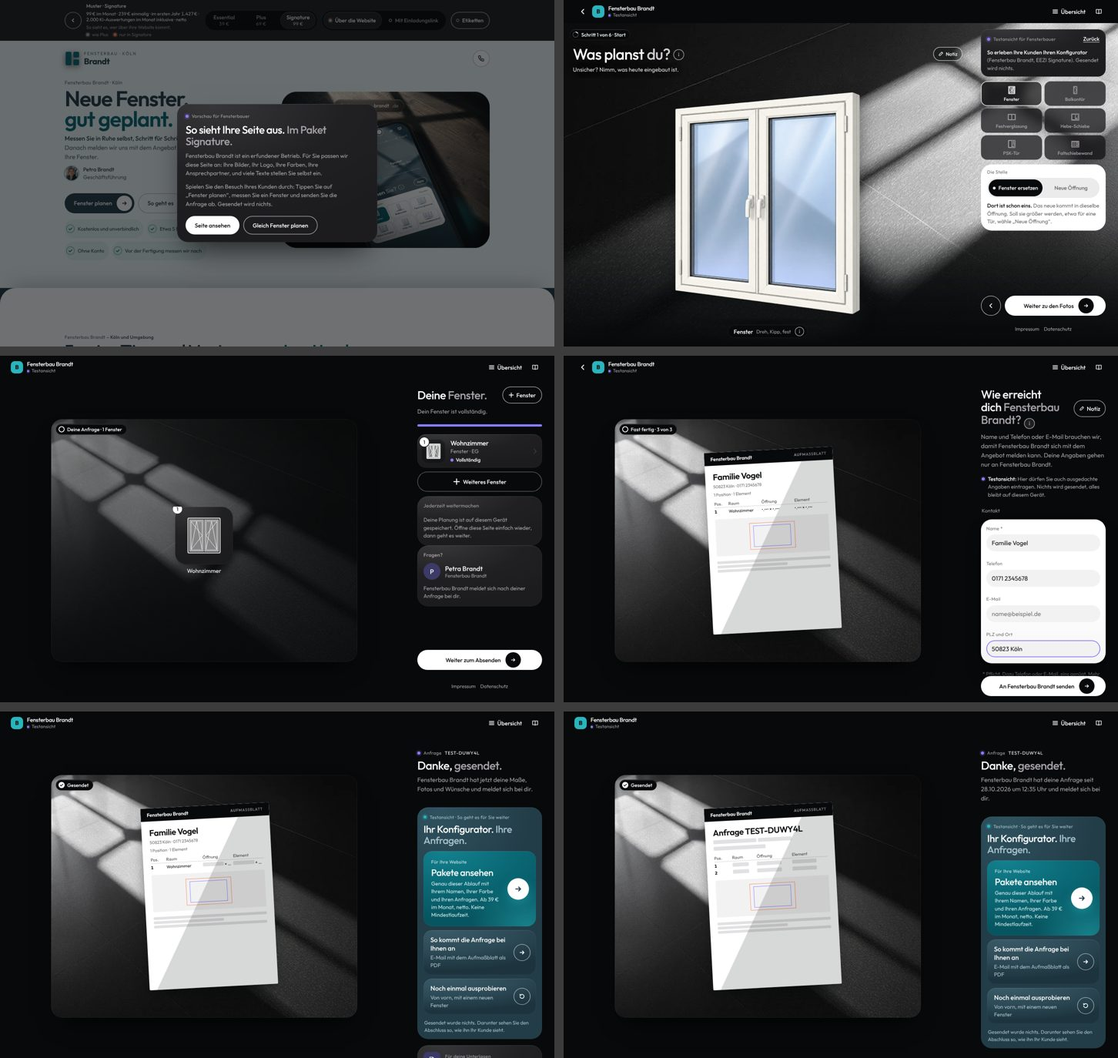
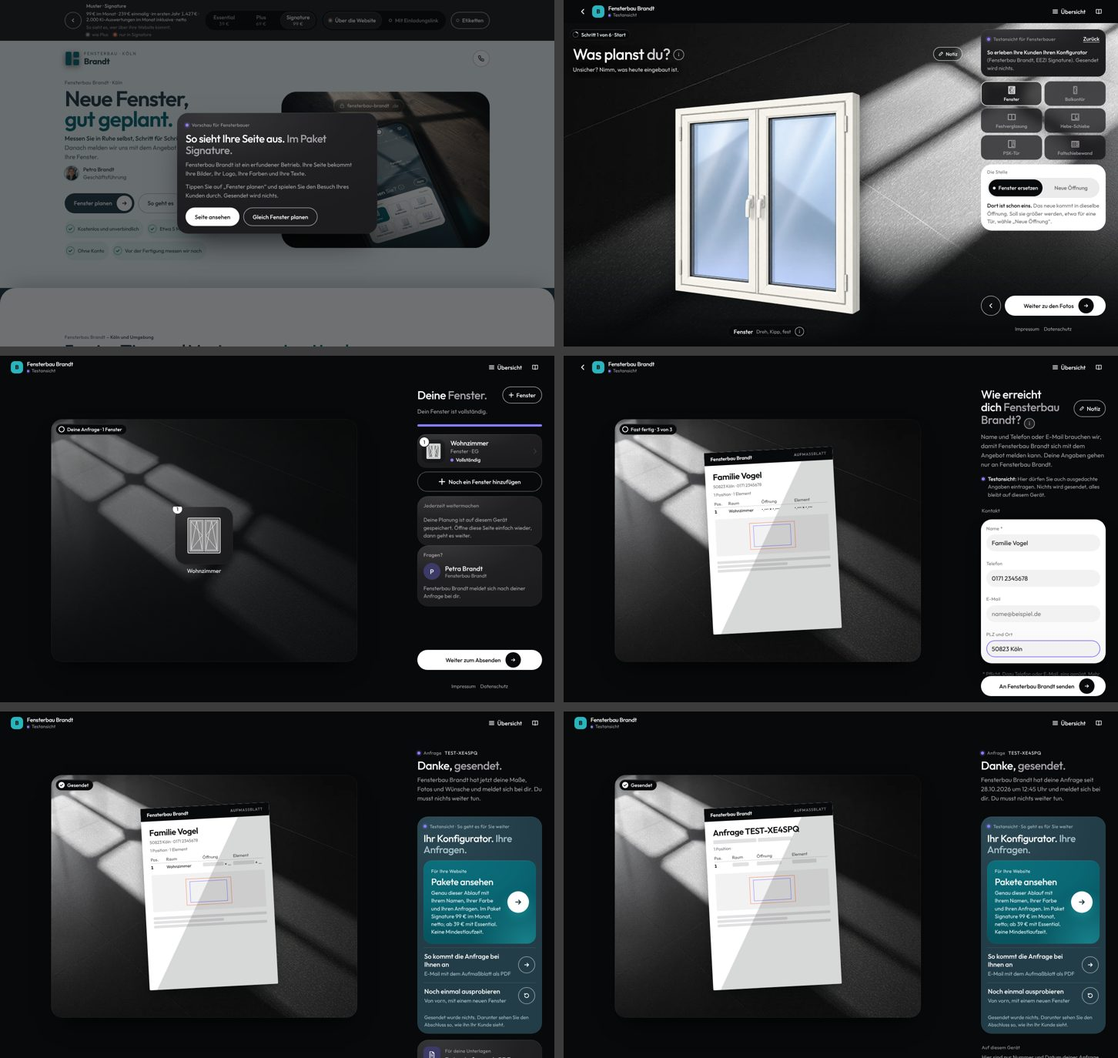
Testablauf: Muss-Punkte des Gremiums umgesetzt
Blatt nach dem Senden mit der gesendeten Anzahl an Fenstern (Veto Datenqualität), Hinweis-Kästchen kürzer und am Telefon unten,
Auswahl am Ende als eine Fläche mit Zeilen, Preis des gezeigten Pakets, „Noch ein Fenster hinzufügen“, „Du musst nichts weiter tun.“,
Name des Betriebs im Kopf ganz. Beispielseiten mit Seitensymbol im Kopf (kein 404 auf /favicon.ico). Gremium und Protokoll ergänzt.

Claude-Session: https://claude.ai/code/session_0184P5fGdniWcDaYecSm6W1G

diff --git a/web/assets/app.js b/web/assets/app.js
@@ -2539,7 +2539,7 @@ function instanzKuerzen() {
   if (ids.size) Fotos.weg(Array.from(ids));
   try { localStorage.removeItem(linkKey() + '.entwurf'); } catch (e) { /* ok */ }
   ['in', 'out'].forEach((k) => { const p = S.photos[k]; if (p && p.url && !p.demo) { try { URL.revokeObjectURL(p.url); } catch (e) { /* ok */ } } });
-  S.sent = { when: S.sent.when, nr: S.sent.nr || '', runde: S.sent.runde || 1, art: S.sent.art || '', uebertragen: true, kurz: true, anderswo: !!S.sent.anderswo };
+  S.sent = { when: S.sent.when, nr: S.sent.nr || '', runde: S.sent.runde || 1, art: S.sent.art || '', uebertragen: true, kurz: true, anderswo: !!S.sent.anderswo, fenster: Number(S.sent.fenster) || S.windows.length || 0 }; // die Anzahl bleibt für das Blatt (Gremium K: „Das Blatt zeigt die echte Anfrage“)
   S.windows = []; S.proj = Object.assign({}, PROJ0); S.win = baseWin(); S.editIdx = -1; S.photos = { in: null, out: null }; S.ai = { in: null, out: null }; S.nb = null; S.angelegt = 0;
   S.sync.bekannt = []; S.sync.geloescht = {};
   lokalSpeichern();
@@ -3932,13 +3932,13 @@ function anfrage2Dna() {
 }
 /* Kontakt: das Aufmaßblatt als Objekt im Fensterlicht; was getippt wird, steht sofort oben auf dem Blatt (abLive), Maße als Punkte */
 function abPapier(offen, schloss, betrieb, balken, nr) { // betrieb: Name im Kopfband statt eeziframes; balken: Maße als ruhige Balken (Bestätigung, Durchschrift ohne Maße); nr: gesendet und vom Gerät gelöscht, dann Nummer und ruhige Zeilen
-  const pr = S.proj, n = S.windows.length, el = S.windows.reduce((a, x) => a + (num(x.anzahl) || 1), 0), pkt = (v) => (balken ? '<i class="ab-leer" style="--b: 72%"></i>' : !v ? '•.•••' : offen ? thousand(v) : thousand(v).replace(/\d/g, '•'));
+  const pr = S.proj, n = S.windows.length, gz = nr && S.sent ? Number(S.sent.fenster) || 0 : 0, el = S.windows.reduce((a, x) => a + (num(x.anzahl) || 1), 0), pkt = (v) => (balken ? '<i class="ab-leer" style="--b: 72%"></i>' : !v ? '•.•••' : offen ? thousand(v) : thousand(v).replace(/\d/g, '•'));
   const kontakt = [pr.ort, pr.tel, pr.mail].map((t) => String(t || '').trim()).filter(Boolean);
   return '<div class="ab-papier" aria-hidden="true"><div class="ab-papier-band">' + (betrieb ? '<span class="ab-papier-betrieb">' + esc(betrieb) + '</span>' : LOGO(10) + '<span class="ab-wm" translate="no"><b>eezi</b>frames</span>') + '<span class="ab-papier-art">Aufmaßblatt</span></div><div class="ab-papier-in">' +
     '<p class="ab-papier-h" data-p="name">' + esc(nr ? 'Anfrage ' + nr : String(pr.name || '').trim() || 'Dein Aufmaß') + '</p>' +
     '<p class="ab-papier-kontakt" data-p="kontakt">' + (kontakt.length ? esc(kontakt.join(' · ')) : '<i class="ab-leer" style="--b: 38%"></i><i class="ab-leer" style="--b: 30%"></i>') + '</p>' +
-    '<p class="ab-papier-s">' + (nr && !n ? '<i class="ab-leer" style="--b: 46%"></i>' : n + (n === 1 ? ' Position' : ' Positionen') + ' · ' + el + (el === 1 ? ' Element' : ' Elemente') + (pr.gebaeude ? ' · ' + esc(lab('gebaeude', pr.gebaeude)) : '')) + '</p>' +
-    '<table class="ab-papier-tab"><tr><th>Pos.</th><th>Raum</th><th>Öffnung</th><th>Element</th></tr>' + S.windows.slice(0, 4).map((x, i) => { const d = derive(x); return '<tr><td><b>' + (i + 1) + '</b></td><td>' + esc(x.name || 'Fenster') + '</td><td>' + pkt(d.moW) + ' × ' + pkt(d.moH) + '</td><td>' + pkt(d.elW) + ' × ' + pkt(d.elH) + '</td></tr>'; }).join('') + (nr && !n ? [1, 2].map((k) => '<tr><td><b>' + k + '</b></td><td><i class="ab-leer" style="--b: 70%"></i></td><td><i class="ab-leer" style="--b: 72%"></i></td><td><i class="ab-leer" style="--b: 72%"></i></td></tr>').join('') : '') + '</table>' +
+    '<p class="ab-papier-s">' + (nr && !n ? (gz ? gz + (gz === 1 ? ' Position' : ' Positionen') : '<i class="ab-leer" style="--b: 46%"></i>') : n + (n === 1 ? ' Position' : ' Positionen') + ' · ' + el + (el === 1 ? ' Element' : ' Elemente') + (pr.gebaeude ? ' · ' + esc(lab('gebaeude', pr.gebaeude)) : '')) + '</p>' +
+    '<table class="ab-papier-tab"><tr><th>Pos.</th><th>Raum</th><th>Öffnung</th><th>Element</th></tr>' + S.windows.slice(0, 4).map((x, i) => { const d = derive(x); return '<tr><td><b>' + (i + 1) + '</b></td><td>' + esc(x.name || 'Fenster') + '</td><td>' + pkt(d.moW) + ' × ' + pkt(d.moH) + '</td><td>' + pkt(d.elW) + ' × ' + pkt(d.elH) + '</td></tr>'; }).join('') + (nr && !n ? Array.from({ length: Math.min(4, gz || 1) }, (_, i) => i + 1).map((k) => '<tr><td><b>' + k + '</b></td><td><i class="ab-leer" style="--b: 70%"></i></td><td><i class="ab-leer" style="--b: 72%"></i></td><td><i class="ab-leer" style="--b: 72%"></i></td></tr>').join('') : '') + '</table>' +
     '<div class="ab-papier-zeichnung"><span class="ab-papier-oeffnung"><span class="ab-papier-element"></span></span></div><div class="ab-papier-zeilen"><i></i><i class="k"></i><i></i></div></div>' +
     (schloss ? '<span class="ab-schloss">' + LOCK + '</span>' : '') + '</div>';
 }
@@ -5133,7 +5133,7 @@ function lgKopf(zurueck) {
   const z = zurueck === false ? null : zurueck || ['liste', 'Zurück: Fenster']; // false: ohne Zurück (Liste der Fenster)
   /* ohne Zurück (Liste der Fenster) ist das Logo wie bisher der Weg zur Startseite der Website */
   const marke = S.betrieb ? (INST ? instKopf() : '') : z ? '<span class="lg-marke" role="img" aria-label="eeziframes">' + LOGO(26) + WM() + '</span>' : '<a class="lg-marke hdr-logo" href="' + PORTAL_URL + '" aria-label="eeziframes, zur Startseite">' + LOGO(26) + WM() + '</a>';
-  return '<div class="lg-kopf"><span class="lg-kopf-l">' + (z ? '<button type="button" class="lg-kopf-zurueck" data-act="' + z[0] + '" aria-label="' + z[1] + '">' + LG_PFEIL_L + '</button>' : '') + marke + '</span>' +
+  return '<div class="lg-kopf' + (z && INST && S.betrieb ? ' mit-name' : '') + '"><span class="lg-kopf-l">' + (z ? '<button type="button" class="lg-kopf-zurueck" data-act="' + z[0] + '" aria-label="' + z[1] + '">' + LG_PFEIL_L + '</button>' : '') + marke + '</span>' +
     '<span class="lg-kopf-r"><button type="button" data-act="wohin" aria-label="Übersicht: Schritte, Fenster und Startseite"><svg viewBox="0 0 18 18" fill="none" stroke="currentColor" stroke-width="1.8" stroke-linecap="round" aria-hidden="true"><path d="M3 5h12M3 9h12M3 13h12"/></svg><span>Übersicht</span></button><button type="button" class="lg-kopf-icon" data-act="gindex" aria-label="Begriffe"><svg viewBox="0 0 18 18" fill="none" stroke="currentColor" stroke-width="1.6" stroke-linejoin="round" aria-hidden="true"><path d="M2.5 3.5h5a1.5 1.5 0 0 1 1.5 1.5v10a1.5 1.5 0 0 0-1.5-1.5h-5zM15.5 3.5h-5A1.5 1.5 0 0 0 9 5v10a1.5 1.5 0 0 1 1.5-1.5h5z"/></svg></button></span></div>';
 }
 /* Kapitel als Stationen auf einem Band: das laufende benannt, die übrigen als Punkte */
@@ -7775,7 +7775,7 @@ function instListeDna(weg) {
   }
   const plus = n && neuMoeglich() && linkOffen() ? '<button type="button" class="dna-pille dna-pille--leise dna-pille--klein hd-neu" data-act="new">' + PLUS + 'Fenster</button>' : '';
   const kopf = '<div class="hd li-kopf"><div class="li-titel"><h1 tabindex="-1">' + T('Ihre', 'Deine') + ' <em>Fenster.</em></h1>' + plus + '</div><p class="sub li-stand">' + stand + '</p></div>';
-  const liste = '<section class="sec liste"><div class="liste-in">' + S.windows.map((x, i) => winCard(x, i, true).replace(/<svg[\s\S]*?<\/svg>/, zuStrich)).join('') + neuKnopf() + '</div></section>';
+  const liste = '<section class="sec liste"><div class="liste-in">' + S.windows.map((x, i) => winCard(x, i, true).replace(/<svg[\s\S]*?<\/svg>/, zuStrich)).join('') + neuKnopf('Noch ein Fenster hinzufügen') + '</div></section>'; // nicht „Weiteres Fenster“: klang neben „Weiter zum Absenden“ gleich (Gremium K)
   const weiter = vorschau() ? '' : instWebsite() ? instWeiterKarte(du) : linkMerk(d.name, du);
   const fuss = n ? '<div class="lg-fuss li-fuss"><button type="button" class="dna-pille lg-weiter btn primary" data-act="go" data-v="anfrage">Weiter zum Absenden' + abPfeil + '</button></div>' : '';
   return { html: lgKopf(false) + dnaTisch(buehne, (weg || '') + kopf + liste + weiter + instKontaktDna(d) + rechtLinks() + fuss), dna: true, cls: 'dna li dt gs-k-teil', voll: true };
@@ -7787,7 +7787,7 @@ function instGesendetKurz(weg) {
   const d = lkDaten(), name = d.name, du = d.du, T = (sie, x) => (du ? x : sie), test = S.sent.art === 'test', nr = S.sent.nr || '';
   const buehne = abBuehne('ab-blatt gs-buehne', 'Gesendet', abPapier(false, false, name, true, nr));
   const titel = '<div class="lg-frage gs-titel"><span class="dna-label">' + (test ? 'Testanfrage ' : 'Anfrage ') + '<span class="inst-nr-wert">' + esc(nr) + '</span></span><div class="lg-frage-kopf"><h1 tabindex="-1">' + (S.sent.anderswo ? 'Schon <span class="ak">gesendet.</span>' : 'Danke, <span class="ak">gesendet.</span>') + '</h1></div>' +
-    '<p>' + esc(name) + T(' hat Ihre Anfrage seit ', ' hat deine Anfrage seit ') + esc(sentWhen()) + T(' und meldet sich bei Ihnen.', ' und meldet sich bei dir.') + '</p></div>';
+    '<p>' + esc(name) + T(' hat Ihre Anfrage seit ', ' hat deine Anfrage seit ') + esc(sentWhen()) + T(' und meldet sich bei Ihnen. Sie müssen nichts weiter tun.', ' und meldet sich bei dir. Du musst nichts weiter tun.') + '</p></div>';
   const geraet = '<section class="gs-geraet"><span class="dna-label">Auf diesem Gerät</span><p>' + T('Hier sind nur Nummer und Datum Ihrer Anfrage gespeichert; Maße, Fotos und Kontaktdaten sind von diesem Gerät gelöscht.', 'Hier sind nur Nummer und Datum deiner Anfrage gespeichert; Maße, Fotos und Kontaktdaten sind von diesem Gerät gelöscht.') + '</p>' +
     '<div class="gs-geraet-knoepfe"><button type="button" class="probe-info-link" data-act="inst-vergessen">Von diesem Gerät löschen</button></div><p class="gs-bleibt">' + T('Ihre Anfrage bei ', 'Deine Anfrage bei ') + esc(name) + ' bleibt bestehen.</p></section>';
   const fuss = '<div class="gs-fuss"><button type="button" class="dna-pille" data-act="inst-weitere">Weitere Anfrage starten' + abPfeil + '</button></div>';
@@ -7813,7 +7813,10 @@ function probeInfo() {
 function probeWahl(frisch) {
   if (!PROBE) return '';
   const P = window.Pakete; let ab = '';
-  try { const m = Math.min.apply(null, P.LISTE.map((k) => P.preis(k).monat)); if (isFinite(m)) ab = 'Ab ' + P.euro(m) + ' im Monat, netto. '; } catch (e) { ab = ''; }
+  try {
+    const g = P.LISTE.map((k) => [k, P.preis(k).monat]).sort((a, b) => a[1] - b[1]), hier = P.preis(PROBE_PAKET).monat, name = (k) => String((P.PAKETE[k] || {}).name || k).replace(/^EEZI\s+/, '');
+    if (g.length && isFinite(hier)) ab = 'Im Paket ' + name(PROBE_PAKET) + ' ' + P.euro(hier) + ' im Monat, netto' + (g[0][0] !== PROBE_PAKET ? '; ab ' + P.euro(g[0][1]) + ' mit ' + name(g[0][0]) : '') + '. ';
+  } catch (e) { ab = ''; } // Preis passend zum gezeigten Paket (Gremium F: sonst wirkt „ab …“ am Ende wie ein Köder)
   const pfeil = '<svg viewBox="0 0 16 16" fill="none" stroke="currentColor" stroke-width="2" stroke-linecap="round" stroke-linejoin="round"><path d="M3 8h10M9 4l4 4-4 4"/></svg>';
   const neu = '<svg viewBox="0 0 16 16" fill="none" stroke="currentColor" stroke-width="1.8" stroke-linecap="round" stroke-linejoin="round"><path d="M2.8 8a5.2 5.2 0 1 0 1.6-3.8"/><path d="M2.6 2.4v2.8h2.8"/></svg>';
   const karte = (i, tag, attr, cls, klein, titel, text, knopf) => '<' + tag + ' class="pw-karte' + cls + '" ' + attr + ' style="--i: ' + i + '"><span class="pw-text">' + (klein ? '<small>' + klein + '</small>' : '') + '<b>' + titel + '</b><span>' + text + '</span></span><span class="pw-knopf" aria-hidden="true">' + knopf + '</span></' + tag + '>';
@@ -7935,7 +7938,7 @@ function instGesendet() {
   const d = lkDaten(), name = d.name, du = d.du, T = (sie, x) => (du ? x : sie), test = S.sent.art === 'test', p = d.p || {}, nr = S.sent.nr || '';
   const buehne = abBuehne('ab-blatt gs-buehne', 'Gesendet', abPapier(false, false, name, true));
   const titel = '<div class="lg-frage gs-titel"><span class="dna-label">' + (test ? 'Testanfrage ' : 'Anfrage ') + '<span class="inst-nr-wert">' + esc(nr) + '</span></span><div class="lg-frage-kopf"><h1 tabindex="-1">Danke, <span class="ak">gesendet.</span></h1></div>' +
-    '<p>' + esc(name) + T(' hat jetzt Ihre Maße, Fotos und Wünsche und meldet sich bei Ihnen.', ' hat jetzt deine Maße, Fotos und Wünsche und meldet sich bei dir.') + '</p></div>';
+    '<p>' + esc(name) + T(' hat jetzt Ihre Maße, Fotos und Wünsche und meldet sich bei Ihnen. Sie müssen nichts weiter tun.', ' hat jetzt deine Maße, Fotos und Wünsche und meldet sich bei dir. Du musst nichts weiter tun.') + '</p></div>';
   const testNote = test ? '<p class="ab-note">Vorschau: Das war eine Testanfrage. Sie geht mit „[Test]“ im Betreff an den Betrieb, zählt nicht mit und ist nach einem Tag gelöscht.</p>' : '';
   const pdf = INST_M.kopieKunde ? '<section class="gs-pdf"><div class="gs-pdf-kopf"><span class="probe-anhang-ic" aria-hidden="true">' + FILE_IC + '</span><span><span class="dna-label">' + T('Für Ihre Unterlagen', 'Für deine Unterlagen') + '</span><b>' + T('Ihre Anfrage als PDF', 'Deine Anfrage als PDF') + '</b></span></div>' +
     '<p>' + T('Durchschrift mit Ihren Fenstern, der Ausstattung und Ihren Wünschen, ohne Maße. Das vollständige Aufmaßblatt schickt ' + esc(name) + ' Ihnen gern auf Anfrage. Nur jetzt: Danach löschen wir die Planung von diesem Gerät.', 'Durchschrift mit deinen Fenstern, der Ausstattung und deinen Wünschen, ohne Maße. Das vollständige Aufmaßblatt schickt ' + esc(name) + ' dir gern auf Anfrage. Nur jetzt: Danach löschen wir die Planung von diesem Gerät.') + '</p>' +

diff --git a/web/assets/app.css b/web/assets/app.css
@@ -1539,6 +1539,8 @@ button.tile { border: 0; padding: 0; font: inherit; color: inherit; width: 100% 
 .dna .lg-kopf .lg-kopf-zurueck, .dna .lg-kopf .lg-kopf-icon { flex: none; width: 44px; padding: 0; justify-content: center }
 /* 320 px: „Übersicht“ nur als Zeichen (Name bleibt für Vorleser), damit jeder Knopf 44 px breit bleibt */
 @media (max-width: 359px) { .dna .lg-kopf [data-act="wohin"] { flex: none; width: 44px; padding: 0; justify-content: center } .dna .lg-kopf [data-act="wohin"] span { position: absolute; width: 1px; height: 1px; overflow: hidden; clip-path: inset(50%); white-space: nowrap } }
+/* Name des Betriebs mit Zurück daneben (Instanz): bis 430 px „Übersicht“ nur als Zeichen, damit der Name ganz steht (Gremium G, Daniel Roth) */
+@media (max-width: 430px) { .dna .lg-kopf.mit-name [data-act="wohin"] { flex: none; width: 44px; padding: 0; justify-content: center } .dna .lg-kopf.mit-name [data-act="wohin"] span { position: absolute; width: 1px; height: 1px; overflow: hidden; clip-path: inset(50%); white-space: nowrap } }
 .dna .lg-marke { display: inline-flex; align-items: center; gap: 8px; font: 400 17px/1 var(--font-sans); letter-spacing: -.01em; color: var(--tinte); white-space: nowrap }
 .dna .lg-marke .fi-logo { width: 26px; height: 26px }
 .dna .lg-marke .wm b { font-weight: 700 }
@@ -3150,20 +3152,22 @@ html.dna-voll .fb .qoffen[aria-pressed="true"] { box-shadow: inset 0 0 0 1.5px v
 .dna.gs .pw-haupt .pw-knopf { width: 56px; height: 56px; background: var(--weiss); color: var(--schwarz); box-shadow: 0 10px 30px -8px rgba(137, 126, 252, .7) }
 .dna.gs .pw-haupt .pw-knopf svg { width: 20px; height: 20px }
 .dna.gs .pw-fuss { margin: 2px 2px 8px; font: 400 13px/1.45 var(--font-sans); color: var(--silbergrau) }
-.dna.gs .probe-wahl.auftritt .pw-karte { animation: pwAuf 460ms var(--dna-auftritt) both; animation-delay: calc(450ms + var(--i, 0) * 90ms) }
+.dna.gs .probe-wahl.auftritt .pw-karte { animation: pwAuf 360ms var(--dna-auftritt) both; animation-delay: calc(450ms + var(--i, 0) * 80ms) }
+/* Gremium G (28.10.2026): eine Fläche, nur „Pakete ansehen“ gefüllt; die beiden anderen Wege als Zeilen mit Trennlinie, kein Rahmen im Rahmen */
+.dna.gs .pw-karte:not(.pw-haupt) { min-height: 64px; padding: 12px 2px; border-radius: 0; background: none; box-shadow: inset 0 1px 0 rgba(255, 255, 255, .12) }
+.dna.gs .pw-karte:not(.pw-haupt) + .pw-karte:not(.pw-haupt) { margin-top: -10px }
+.dna.gs .pw-karte:not(.pw-haupt):active { transform: none; opacity: .7 }
 @keyframes pwAuf { from { opacity: 0; transform: translateY(10px) } to { opacity: 1; transform: none } }
 /* In den Farben des Beispielbetriebs (Inhaber, 28.10.2026: „auch in den entsprechenden Farben des Betriebes“; Palette Fensterbau Brandt
    wie in web/vorschau/paket-beispiel/farben.css): Signature ganz (Fläche Schieferblau, Karten Schiefer, die große in Petrol mit
    Aquatürkis als Licht), Plus zur Hälfte (Karten Schiefer, Licht Aquatürkis), Essential bleibt eeziframes */
 .dna.gs .probe-wahl.pw-voll { --b-schiefer: #233d48; --b-schiefer-hoch: #2c4955; --b-petrol: #0a6774; --b-petrol-tief: #075560; --b-aqua: #2ab4bd; --b-eis: #eef7f9;
-  padding: 18px 16px 6px; border-radius: 28px; background: radial-gradient(120% 70% at 18% 0%, #2f5260, var(--b-schiefer) 60%); box-shadow: inset 0 1px 0 rgba(255, 255, 255, .10) }
+  padding: 18px 16px 6px; border-radius: 28px; background: radial-gradient(120% 70% at 18% 0%, #2c4955, var(--b-schiefer) 60%); box-shadow: inset 0 1px 0 rgba(255, 255, 255, .10) }
 .dna.gs .probe-wahl:is(.pw-voll, .pw-halb) .dna-label { color: #a9c3cc }
-.dna.gs .probe-wahl:is(.pw-voll, .pw-halb) .dna-label::before { background: #2ab4bd; box-shadow: 0 0 0 4px rgba(42, 180, 189, .22) }
 .dna.gs .probe-wahl:is(.pw-voll, .pw-halb) h2 .ak, .dna.gs .probe-wahl:is(.pw-voll, .pw-halb) .pw-text > span, .dna.gs .probe-wahl:is(.pw-voll, .pw-halb) .pw-text small, .dna.gs .probe-wahl.pw-voll .pw-fuss { color: #a9c3cc }
-.dna.gs .probe-wahl:is(.pw-voll, .pw-halb) .pw-karte { background: radial-gradient(120% 90% at 18% 0%, #3a5a68, #2c4955 55%, #1d343e) }
-.dna.gs .probe-wahl.pw-voll .pw-haupt { background: radial-gradient(70% 90% at 92% 100%, rgba(42, 180, 189, .45), transparent 70%), radial-gradient(120% 90% at 18% 0%, #13808e, #0a6774 55%, #075560) }
-.dna.gs .probe-wahl.pw-voll .pw-haupt .pw-text > span, .dna.gs .probe-wahl.pw-voll .pw-haupt .pw-text small { color: #cfe9ec }
-.dna.gs .probe-wahl.pw-halb .pw-haupt { background: radial-gradient(70% 90% at 92% 100%, rgba(42, 180, 189, .38), transparent 72%), radial-gradient(120% 90% at 18% 0%, #3a5a68, #2c4955 55%, #1d343e) }
+.dna.gs .probe-wahl.pw-voll .pw-haupt { background: radial-gradient(70% 90% at 92% 100%, rgba(42, 180, 189, .45), transparent 70%), radial-gradient(120% 90% at 18% 0%, #0c6f7c, #0a6774 55%, #075560) }
+.dna.gs .probe-wahl.pw-voll .pw-haupt .pw-text > span, .dna.gs .probe-wahl.pw-voll .pw-haupt .pw-text small { color: #e6f4f6 } /* ab 5,2:1 auf Petrol */
+.dna.gs .probe-wahl.pw-halb .pw-haupt { background: radial-gradient(70% 90% at 92% 100%, rgba(42, 180, 189, .38), transparent 72%), radial-gradient(120% 90% at 18% 0%, #2c4955, #233d48 55%, #1d343e) }
 .dna.gs .probe-wahl:is(.pw-voll, .pw-halb) .pw-haupt .pw-knopf { color: #233d48; box-shadow: 0 10px 30px -8px rgba(42, 180, 189, .7) }
 .dna.gs .probe-wahl:is(.pw-voll, .pw-halb) .pw-knopf { box-shadow: inset 0 0 0 1.5px rgba(255, 255, 255, .55) }
 @media (prefers-reduced-motion: reduce) {

diff --git a/web/vorschau/paket-beispiel/essential.html b/web/vorschau/paket-beispiel/essential.html
@@ -1,4 +1,4 @@
-<!doctype html><html lang="de"><head><meta charset="utf-8"><meta name="robots" content="noindex, nofollow"><meta name="viewport" content="width=device-width,initial-scale=1,viewport-fit=cover"><style>:root{box-sizing:border-box}body{margin:0;padding:0;background:#07090a}img{max-width:100%}[hidden]{display:none!important}</style></head><body><!doctype html><html><head><meta charset=utf8><meta name=viewport content="width=device-width,initial-scale=1,viewport-fit=cover"><style>:root{color-scheme:light;box-sizing:border-box;padding-top:env(safe-area-inset-top,0px);padding-bottom:env(safe-area-inset-bottom,0px)}html{scroll-padding-top:env(safe-area-inset-top,0px)}body{margin:0;padding:0;font:14px -apple-system,BlinkMacSystemFont,sans-serif;background:#fff;color:#000}img{max-width:100%}[hidden]:not([hidden=until-found i]){display:none!important}</style></head><body>
+<!doctype html><html lang="de"><head><meta charset="utf-8"><meta name="robots" content="noindex, nofollow"><meta name="viewport" content="width=device-width,initial-scale=1,viewport-fit=cover"><style>:root{box-sizing:border-box}body{margin:0;padding:0;background:#07090a}img{max-width:100%}[hidden]{display:none!important}</style><link rel="icon" href="/favicon.svg" type="image/svg+xml"></head><body><!doctype html><html><head><meta charset=utf8><meta name=viewport content="width=device-width,initial-scale=1,viewport-fit=cover"><style>:root{color-scheme:light;box-sizing:border-box;padding-top:env(safe-area-inset-top,0px);padding-bottom:env(safe-area-inset-bottom,0px)}html{scroll-padding-top:env(safe-area-inset-top,0px)}body{margin:0;padding:0;font:14px -apple-system,BlinkMacSystemFont,sans-serif;background:#fff;color:#000}img{max-width:100%}[hidden]:not([hidden=until-found i]){display:none!important}</style></head><body>
 <title>Beispiel EEZI Essential: Fensterbau Brandt, ein erfundener Betrieb · eeziframes</title>
 <style>html,body{background:#07090a}</style>
 <link rel="preload" href="fonts/outfit.woff2" as="font" type="font/woff2" crossorigin>

diff --git a/web/vorschau/paket-beispiel/plus.html b/web/vorschau/paket-beispiel/plus.html
@@ -1,4 +1,4 @@
-<!doctype html><html lang="de"><head><meta charset="utf-8"><meta name="robots" content="noindex, nofollow"><meta name="viewport" content="width=device-width,initial-scale=1,viewport-fit=cover"><style>:root{box-sizing:border-box}body{margin:0;padding:0;background:#07090a}img{max-width:100%}[hidden]{display:none!important}</style></head><body><title>Beispiel EEZI Essential Plus: Fensterbau Brandt, ein erfundener Betrieb · eeziframes</title>
+<!doctype html><html lang="de"><head><meta charset="utf-8"><meta name="robots" content="noindex, nofollow"><meta name="viewport" content="width=device-width,initial-scale=1,viewport-fit=cover"><style>:root{box-sizing:border-box}body{margin:0;padding:0;background:#07090a}img{max-width:100%}[hidden]{display:none!important}</style><link rel="icon" href="/favicon.svg" type="image/svg+xml"></head><body><title>Beispiel EEZI Essential Plus: Fensterbau Brandt, ein erfundener Betrieb · eeziframes</title>
 <meta name="description" content="Messen Sie Ihre Fenster selbst, Schritt für Schritt erklärt, und fragen Sie Ihr Angebot bei Fensterbau Brandt in Köln an. Kostenlos, ohne Konto, etwa 5 Minuten je Fenster.">
 <style>html,body{background:#07090a}</style>
 <link rel="preload" href="fonts/outfit.woff2" as="font" type="font/woff2" crossorigin>

diff --git a/web/vorschau/paket-beispiel/signature.html b/web/vorschau/paket-beispiel/signature.html
@@ -1,4 +1,4 @@
-<!doctype html><html lang="de"><head><meta charset="utf-8"><meta name="robots" content="noindex, nofollow"><meta name="viewport" content="width=device-width,initial-scale=1,viewport-fit=cover"><style>:root{box-sizing:border-box}body{margin:0;padding:0;background:#07090a}img{max-width:100%}[hidden]{display:none!important}</style></head><body><title>Beispiel EEZI Signature: Fensterbau Brandt, ein erfundener Betrieb · eeziframes</title>
+<!doctype html><html lang="de"><head><meta charset="utf-8"><meta name="robots" content="noindex, nofollow"><meta name="viewport" content="width=device-width,initial-scale=1,viewport-fit=cover"><style>:root{box-sizing:border-box}body{margin:0;padding:0;background:#07090a}img{max-width:100%}[hidden]{display:none!important}</style><link rel="icon" href="/favicon.svg" type="image/svg+xml"></head><body><title>Beispiel EEZI Signature: Fensterbau Brandt, ein erfundener Betrieb · eeziframes</title>
 <meta name="description" content="Messen Sie Ihre Fenster selbst, Schritt für Schritt erklärt, und fragen Sie Ihr Angebot bei Fensterbau Brandt in Köln an. Kostenlos, ohne Konto, etwa 5 Minuten je Fenster.">
 <style>html,body{background:#07090a}</style>
 <link rel="preload" href="fonts/outfit.woff2" as="font" type="font/woff2" crossorigin>

diff --git a/docs/profis/werkzeuge/ausprobieren-hinweis.js b/docs/profis/werkzeuge/ausprobieren-hinweis.js
@@ -31,10 +31,8 @@
     '<div class="ez-probe__karte">' +
       '<span class="ez-probe__etikett">Vorschau für Fensterbauer</span>' +
       '<h2 id="ez-probe-t" tabindex="-1">So sieht Ihre Seite aus. <span>Im Paket ' + (namen[paket] || 'Signature') + '.</span></h2>' +
-      '<p id="ez-probe-s">Fensterbau Brandt ist ein erfundener Betrieb. Für Sie passen wir diese Seite an: Ihre Bilder, Ihr Logo, Ihre Farben, ' +
-        'Ihre Ansprechpartner, und viele Texte stellen Sie selbst ein.</p>' +
-      '<p>Spielen Sie den Besuch Ihres Kunden durch: Tippen Sie auf „Fenster planen“, messen Sie ein Fenster und senden Sie die Anfrage ab. ' +
-        'Gesendet wird nichts.</p>' +
+      '<p id="ez-probe-s">Fensterbau Brandt ist ein erfundener Betrieb. Ihre Seite bekommt Ihre Bilder, Ihr Logo, Ihre Farben und Ihre Texte.</p>' +
+      '<p>Tippen Sie auf „Fenster planen“ und spielen Sie den Besuch Ihres Kunden durch. Gesendet wird nichts.</p>' +
       '<div class="ez-probe__knoepfe">' +
         '<button type="button" class="ez-probe__pille" data-zu>Seite ansehen</button>' +
         '<a class="ez-probe__leise" href="/app/?ausprobieren=' + paket + '">Gleich Fenster planen</a>' +

diff --git a/web/vorschau/paket-beispiel/ausprobieren.js b/web/vorschau/paket-beispiel/ausprobieren.js
@@ -31,10 +31,8 @@
     '<div class="ez-probe__karte">' +
       '<span class="ez-probe__etikett">Vorschau für Fensterbauer</span>' +
       '<h2 id="ez-probe-t" tabindex="-1">So sieht Ihre Seite aus. <span>Im Paket ' + (namen[paket] || 'Signature') + '.</span></h2>' +
-      '<p id="ez-probe-s">Fensterbau Brandt ist ein erfundener Betrieb. Für Sie passen wir diese Seite an: Ihre Bilder, Ihr Logo, Ihre Farben, ' +
-        'Ihre Ansprechpartner, und viele Texte stellen Sie selbst ein.</p>' +
-      '<p>Spielen Sie den Besuch Ihres Kunden durch: Tippen Sie auf „Fenster planen“, messen Sie ein Fenster und senden Sie die Anfrage ab. ' +
-        'Gesendet wird nichts.</p>' +
+      '<p id="ez-probe-s">Fensterbau Brandt ist ein erfundener Betrieb. Ihre Seite bekommt Ihre Bilder, Ihr Logo, Ihre Farben und Ihre Texte.</p>' +
+      '<p>Tippen Sie auf „Fenster planen“ und spielen Sie den Besuch Ihres Kunden durch. Gesendet wird nichts.</p>' +
       '<div class="ez-probe__knoepfe">' +
         '<button type="button" class="ez-probe__pille" data-zu>Seite ansehen</button>' +
         '<a class="ez-probe__leise" href="/app/?ausprobieren=' + paket + '">Gleich Fenster planen</a>' +

diff --git a/docs/profis/werkzeuge/ausprobieren-hinweis.css b/docs/profis/werkzeuge/ausprobieren-hinweis.css
@@ -24,4 +24,6 @@
 .ez-probe__pille:active, .ez-probe__leise:active { transform: scale(.97); transition-duration: 0s }
 .ez-probe__pille:focus-visible, .ez-probe__leise:focus-visible { outline: 2px solid #fff; outline-offset: 3px }
 @media (max-width: 420px) { .ez-probe__knoepfe > * { flex: 1 1 100% } .ez-probe h2 { font-size: 26px } }
+/* Telefon: das Kästchen sitzt unten, oben bleibt die Seite des Betriebs zu sehen (Gremium F: „die Seite zuerst zeigen“) */
+@media (max-width: 600px) { .ez-probe { margin: auto auto calc(16px + env(safe-area-inset-bottom, 0px)) } }
 @media (prefers-reduced-motion: reduce) { .ez-probe[open], .ez-probe[open]::backdrop { animation: none } .ez-probe__pille, .ez-probe__leise { transition: none } }

diff --git a/web/vorschau/paket-beispiel/ausprobieren.css b/web/vorschau/paket-beispiel/ausprobieren.css
@@ -24,4 +24,6 @@
 .ez-probe__pille:active, .ez-probe__leise:active { transform: scale(.97); transition-duration: 0s }
 .ez-probe__pille:focus-visible, .ez-probe__leise:focus-visible { outline: 2px solid #fff; outline-offset: 3px }
 @media (max-width: 420px) { .ez-probe__knoepfe > * { flex: 1 1 100% } .ez-probe h2 { font-size: 26px } }
+/* Telefon: das Kästchen sitzt unten, oben bleibt die Seite des Betriebs zu sehen (Gremium F: „die Seite zuerst zeigen“) */
+@media (max-width: 600px) { .ez-probe { margin: auto auto calc(16px + env(safe-area-inset-bottom, 0px)) } }
 @media (prefers-reduced-motion: reduce) { .ez-probe[open], .ez-probe[open]::backdrop { animation: none } .ez-probe__pille, .ez-probe__leise { transition: none } }

diff --git a/docs/profis/werkzeuge/paketvorlagen.py b/docs/profis/werkzeuge/paketvorlagen.py
@@ -103,6 +103,9 @@ def fuer_web(html, p):
     html = html.replace('<link rel="stylesheet" href="muster.css">', '<link rel="stylesheet" href="muster.css">\n<link rel="stylesheet" href="ausprobieren.css">', 1)
     html = html.replace('<script src="muster.js"></script>', '<script src="muster.js"></script>\n<script src="ausprobieren.js"></script>', 1)
     assert 'href="ausprobieren.css"' in html and 'src="ausprobieren.js"' in html, p
+    # Seitensymbol in den Kopf (der Kopf der Vorlagen endet nach dem ersten Stil; im Körper liest der Browser es nicht und fragt /favicon.ico)
+    html = html.replace('</head>', '<link rel="icon" href="/favicon.svg" type="image/svg+xml"></head>', 1)
+    assert 'rel="icon"' in html, p
     assert '<script>' not in html and 'noindex' in html, p
     return html
 

diff --git a/docs/profis/gremium/2026-10-28-ausprobieren.md b/docs/profis/gremium/2026-10-28-ausprobieren.md
@@ -1,0 +1,100 @@
+# Gremium: Ausprobieren über die Beispielseite von Fensterbau Brandt (28.10.2026, nachmittags)
+
+Das Gremium ist simuliert: eine Runde, drei getrennte Agenten, blind X/Y. Echte Stimmen gab es nicht.
+
+- **X:** neu. Beispielseite Signature mit Kästchen, erste Folie, Fensterliste im Look der DNA, Kontakt, Versandmeldung, Auswahl in den
+  Farben von Fensterbau Brandt, Startseite nach dem Senden im Look der DNA.
+- **Y:** bisher. Gleich die erste Folie, Fensterliste im früheren Look, Auswahl in Anthrazit mit violettem Licht.
+
+## Änderungsliste
+
+1. Einstieg über die Beispielseite mit Kästchen.
+2. Zurück aus der ersten Folie auf die Beispielseite.
+3. Fensterliste im neuen Look.
+4. Auswahl am Ende in den Farben des Betriebs.
+5. Startseite nach dem Senden im neuen Look.
+
+## Gestalter (Gruppe G)
+
+| Person | Hand | Kernsatz |
+| --- | --- | --- |
+| Jonas Veit | 4 | Die Auswahl ist dreifach gerahmt (Fläche, Karte, Kreis). Eine Petrol-Fläche, nur „Pakete ansehen“ gefüllt, die anderen als Zeilen. |
+| Lena Hartwig | 3 | Das Kästchen ist zu lang. Der Punkt am Etikett bleibt violett. Grautexte auf Petrol messen, unter 4,5:1 wäre eine Faust. |
+| Noah Brandner | 4 | Die Staffel ist zu lang. Der Pfeilkreis wirkt im Auftritt grau und gesperrt. |
+| Tobias Lenz | 4 | Das Kästchen darf nicht auf Bilder warten. LCP und CLS bei 390 px messen. |
+| Mara Keller | 4 | Ein Preis, der zum gezeigten Paket passt, sonst wirkt „ab 39 €“ wie ein Lockangebot. |
+| Daniel Roth | 3 | Der Name im Kopf ist abgeschnitten („Fensterbau Br…“), und im Kästchen steht ein Kommafehler. |
+
+- Ergebnis: X gewinnt 6:0, Median der Hand 4, keine Faust.
+- Änderungen:
+  - 1 ändern (Text und Laden)
+  - 2, 3 und 5 behalten
+  - 4 ändern (Form, Staffel, Preis, Punkt)
+
+## Kunden (Gruppe K)
+
+| Person | Hand | Kernsatz |
+| --- | --- | --- |
+| Renate Vogel | 4 | „Weiteres Fenster“ und „Weiter zum Absenden“ klingen gleich. Muss ich noch etwas tun? |
+| Murat Demir | 4 | Die Pille unten zeigt immer, wie es weitergeht. |
+| Sabine Kraus | 3 | Ein Satz, dass der Betrieb die Maße prüft, würde mich beruhigen. |
+| Thomas Berger | 4 | Das Blatt nach dem Senden zeigt zwei Zeilen, ich habe ein Fenster geschickt. Das stimmt nicht. |
+| Gisela Pohl | 3 | Der türkise Kasten mit Preis sieht aus, als wollte Brandt mir ein Abo verkaufen. |
+| Kai Hofmann (Gegenspieler) | 2 | Er liest „Weiteres Fenster“ als „weiter“. |
+
+- Ergebnis: X 5:1.
+- Verstanden haben:
+  - angekommen: 5 von 6
+  - was kommt: 3 von 6
+  - was zu tun ist: 4 von 6
+- Median 3,5, keine Faust.
+
+## Fensterbauer (Gruppe F)
+
+| Person | Hand | Kernsatz |
+| --- | --- | --- |
+| Klaus Brandt | 2 | Veto Datenqualität: Das Blatt nach dem Senden zeigt zwei Positionen, gesendet war eine. |
+| Sarah Kranich | 4 | Die echte Firmenseite zeigt, was ich kaufe. Das Kästchen darf das Wow nicht verdecken. |
+| Deniz Yilmaz | 3 | Kästchen kürzen. Das Paket am Einstieg wählen statt fest Signature. |
+| Tobias Reuter | 3 | „Vollständig“ grün wie in Y. |
+| Michael Sonntag | 3 | Ein Zeigemodus ohne Preisleiste für den Küchentisch. |
+| Petra Lindqvist | 3 | Der Preis am Ende soll zum gezeigten Paket passen. Ein Satz zu Serverstandort und KI. |
+
+- Ergebnis: X 5:1.
+- Median: Hand 3, „kaufen“ 3, „zeigen“ 3.
+- Ein Veto (Klaus Brandt, Datenqualität).
+
+## Umgesetzt (Muss-Punkte und Vetos)
+
+1. Das Blatt nach dem Senden zeigt die gesendete Anzahl an Fenstern („1 Position“, eine Zeile), damit ist das Veto erledigt. Maße, Name
+   und Kontakt bleiben vom Gerät gelöscht. Auf dem Gerät bleibt nur die Anzahl, sie ist keine personenbezogene Angabe.
+2. Das Kästchen ist kürzer (zwei Absätze mit je zwei Sätzen, ohne Kommafehler). Am Telefon sitzt es unten, oben bleibt die Seite des
+   Betriebs zu sehen. Es erscheint, sobald das Skript läuft, ohne auf Bilder zu warten.
+3. Die Auswahl am Ende ist eine Fläche. Nur „Pakete ansehen“ ist gefüllt, die beiden anderen Wege stehen als Zeilen mit Trennlinie
+   darunter. Der Punkt am Etikett bleibt violett, die Staffel dauert 360 ms (80 ms Versatz). Alle Texte auf Petrol und Schiefer
+   haben mindestens 5,2:1.
+4. Der Preis passt zum gezeigten Paket: „Im Paket Signature 99 € im Monat, netto; ab 39 € mit Essential.“ (aus pakete.js).
+5. In der Fensterliste der Instanz heißt der Knopf „Noch ein Fenster hinzufügen“ statt „Weiteres Fenster“.
+6. Die Bestätigung und die Startseite nach dem Senden sagen „Du musst nichts weiter tun.“
+7. Der Name des Betriebs steht im Kopf ganz: Bis 430 px ist „Übersicht“ dort nur ein Zeichen. Den Namen behält der Knopf für Vorleser.
+
+## Nicht übernommen, mit Grund
+
+- Auswahl nicht in Betriebsfarben (Gisela Pohl): Der Inhaber will sie ausdrücklich in den Farben des Betriebs. Echte Kunden sehen die
+  Auswahl nie, sie gibt es nur in der Testansicht.
+- Paket am Einstieg wählbar statt Signature (Deniz Yilmaz): Der Inhaber will Signature. Die Muster-Leiste wechselt das Paket und bleibt
+  dabei in der Testansicht.
+- „Vollständig“ in Grün (Tobias Reuter): Grün gehört nicht zur Palette der DNA. „Vollständig“ steht mit Punkt und Wort da, nicht nur
+  über die Farbe.
+- Ein Satz zu Serverstandort und KI (Petra Lindqvist) und ein Hinweis „Brandt prüft die Maße“ (Sabine Kraus): Dafür fehlen gesicherte
+  Angaben, erfunden wird nichts. Beides ist offen für das Wort des Inhabers.
+- Zeigemodus ohne Preisleiste (Michael Sonntag): eine neue Funktion, offen.
+- „EEZI Essential Plus gibt es nicht“ (Petra Lindqvist, Daniel Roth): Das Paket heißt in pakete.js und auf der Seite für Fensterbauer
+  so.
+
+## Messung (Beispielseite, 390 px, vierfach gedrosselte CPU)
+
+- LCP 0,6 bis 1,3 s.
+- Das Kästchen steht beim Ereignis `load`.
+- CLS 0 in 7 von 10 Läufen. In 3 Läufen springt der Hero-Text (0,10 bis 0,17), auch ohne Testansicht. Das bestand schon vorher im
+  Aufbau des Hero und ist offen.

diff --git a/docs/GESTALTUNG.md b/docs/GESTALTUNG.md
@@ -592,9 +592,12 @@ Wünsche (`frageDna`), Schritt 1 „Was planst du?“ (`startDna`) und Schritt 2
     vorherigen Geschäftsausrichtung und dessen Design … möcht ich halt nicht in diesen Schritten sehen“): „Selbst ausprobieren“ öffnet die
     Beispielseite Signature von Fensterbau Brandt; die Seite liegt abgedunkelt (Schwarz zu 58 %) hinter einem Kästchen in der Palette von
     eeziframes (Anthrazit-Karte mit Lichtkante, Etikett mit violettem Punkt, weiße Pille „Seite ansehen“, Umriss „Gleich Fenster planen“,
-    320 ms ease-out, Grund 220 ms). Die Auswahl am Ende steht in den Farben des Beispielbetriebs: Signature auf Schieferblau mit Karten in
-    Schiefer und der großen Karte in Petrol mit Aquatürkis als Licht, Plus mit Karten in Schiefer und Aquatürkis als Licht, Essential im
-    Look von eeziframes. Fensterliste und die Startseite nach dem Senden folgen den Abschluss-Folien (Liste: Bühne mit den Fenstern als
+    320 ms ease-out, Grund 220 ms). Die Auswahl am Ende steht in den Farben des Beispielbetriebs und ist eine Fläche (Gremium G):
+    Signature auf Schieferblau mit der einen gefüllten Karte „Pakete ansehen“ in Petrol mit Aquatürkis als Licht, Plus mit dieser Karte
+    in Schiefer, Essential im Look von eeziframes. Die beiden anderen Wege stehen als Zeilen mit Trennlinie darunter, der Punkt am
+    Etikett bleibt violett, die Karte nennt den Preis des gezeigten Pakets und „ab …“ mit dem kleinsten (pakete.js). Am Telefon sitzt
+    das Kästchen unten, oben bleibt die Seite des Betriebs zu sehen. Im Kopf einer Instanz ist „Übersicht“ bis 430 px nur ein
+    Zeichen, damit der Name des Betriebs ganz steht. Fensterliste und die Startseite nach dem Senden folgen den Abschluss-Folien (Liste: Bühne mit den Fenstern als
     Strichzeichnungen, „Deine Fenster.“ mit Stand und Balken, Karten, „Fragen?“, die Pille „Weiter zum Absenden“; nach dem Senden das Blatt
     mit der Nummer und ruhigen Zeilen, weil Maße und Kontakt vom Gerät gelöscht sind).
   - Bestätigung nach dem Senden einer Instanz („Danke, gesendet.“, `instGesendet`, Wunsch des Inhabers, 28.10.2026): Rahmen der
